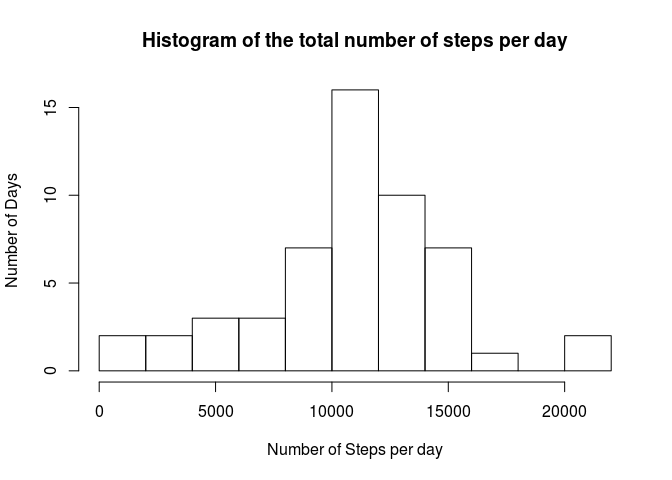
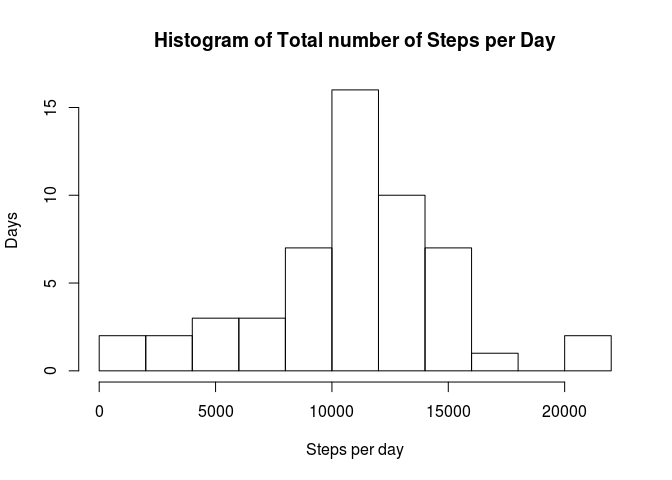
Additional reporting as required for the assignment

Changed region(s): [[0.1875, 0.0625, 0.8438, 0.125], [0.4062, 0.9062, 0.6562, 0.9688], [0.0, 0.3438, 0.0312, 0.5938]]

diff --git a/PA1_template.html b/PA1_template.html
@@ -80,12 +80,12 @@ img {
 <p>Load the required libraries</p>
 <pre class="r"><code>library(knitr)
 library(lattice)</code></pre>
-<p>Since the requirement is to output all of the R code in the final report, set the global option of <code>echo = TRUE</code></p>
+<p>Since the requirement is to output all of the R code in the final report, set the global option of <code>echo = TRUE</code>. Additionally, the generated plot images are supposed to be stored in the <code>figure</code> directory.</p>
 <pre class="r"><code>opts_chunk$set(echo = TRUE, fig.path='figure/')</code></pre>
 </div>
 <div id="loading-and-preprocessing-the-data" class="section level2">
 <h2>Loading and preprocessing the data</h2>
-<p>Since the dataset is already part of our github repo, let’s load it.</p>
+<p>Since the dataset is already part of our github repo in zip format, let’s load it.</p>
 <pre class="r"><code>unzip(zipfile = 'activity.zip', overwrite = TRUE)
 activityData &lt;- read.csv(file = 'activity.csv', header = TRUE)</code></pre>
 <p>Now, quickly confirm the structure of the dataset.</p>
@@ -103,8 +103,8 @@ activityData &lt;- read.csv(file = 'activity.csv', header = TRUE)</code></pre>
 ##  3rd Qu.: 12.00   2012-10-05:  288   3rd Qu.:1766.2  
 ##  Max.   :806.00   2012-10-06:  288   Max.   :2355.0  
 ##  NA's   :2304     (Other)   :15840</code></pre>
-<p>This confirms that the dataset has 3 variables of steps, date and interval as stated in the introduction above.</p>
-<p>Now, let’s answer some questions.</p>
+<p>This confirms that the dataset has 3 variables of <code>steps</code>, <code>date</code> and <code>interval</code> as stated in the introduction above.</p>
+<p>Now, let’s answer the questions for the assignment.</p>
 </div>
 <div id="what-is-mean-total-number-of-steps-taken-per-day" class="section level2">
 <h2>What is mean total number of steps taken per day?</h2>
@@ -117,8 +117,8 @@ colnames(totalStepsPerDay) &lt;- c('date', 'steps')</code></pre>
 <ol start="2" style="list-style-type: decimal">
 <li>Make a histogram of the total number of steps taken each day</li>
 </ol>
-<pre class="r"><code>hist(totalStepsPerDay$steps, breaks = 10, main = 'Histogram of the total number of steps per day', xlab = 'Number of Steps per day', ylab = 'Number of Days')</code></pre>
[1 lines of base64/hex data omitted]
+<pre class="r"><code>hist(totalStepsPerDay$steps, breaks = 10, main = 'Histogram of Total number of Steps per Day', xlab = 'Steps per day', ylab = 'Days')</code></pre>
[1 lines of base64/hex data omitted]
 <ol start="3" style="list-style-type: decimal">
 <li>Calculate and report the mean and median of the total number of steps taken per day</li>
 </ol>
@@ -128,6 +128,7 @@ meanStepsPerDay</code></pre>
 <pre class="r"><code>medianStepsPerDay &lt;- median(totalStepsPerDay$steps)
 medianStepsPerDay</code></pre>
 <pre><code>## [1] 10766</code></pre>
+<p><strong>Mean Steps Per Day</strong>: <code>10767</code><br /><strong>Median Steps Per Day</strong>: <code>10766</code></p>
 </div>
 <div id="what-is-the-average-daily-activity-pattern" class="section level2">
 <h2>What is the average daily activity pattern?</h2>
@@ -150,6 +151,7 @@ xyplot(as.numeric(avgStepsPerInterval$steps) ~ avgStepsPerInterval$interval,
 <pre class="r"><code>maxStepRow &lt;- avgStepsPerInterval[order(avgStepsPerInterval$steps, decreasing = TRUE),][1,]
 maxStepRow$interval</code></pre>
 <pre><code>## [1] 835</code></pre>
+<p><strong>Interval <code>835</code></strong> contains maximum number of steps averaged across all the days.</p>
 </div>
 <div id="imputing-missing-values" class="section level2">
 <h2>Imputing missing values</h2>
@@ -159,19 +161,23 @@ maxStepRow$interval</code></pre>
 <pre class="r"><code>missingValuesCount &lt;- length(activityData[is.na(activityData$steps),][,1])
 missingValuesCount</code></pre>
 <pre><code>## [1] 2304</code></pre>
+<p>There are a <strong>total of <code>2304</code> rows</strong> with NAs in the dataset</p>
 <ol start="2" style="list-style-type: decimal">
-<li>A strategy for filling in all of the missing values in the dataset can be to use the mean for that 5-minute interval. So, a new dataset that is equal to the original dataset but with the missing data filled in can be calculated as below:</li>
+<li>As a strategy for <strong>filling in all of the missing values we use the mean for that 5-minute interval.</strong> So, a new dataset that is equal to the original dataset but with the missing data filled in can be calculated as below:</li>
 </ol>
-<pre class="r"><code>imputedActivityData &lt;- activityData
+<pre class="r"><code>imputedActivityData &lt;- activityData #make a copy of the original dataset
+
+# loop through the dataset one row at a time
 for (i in 1:nrow(imputedActivityData)) {
-  if (is.na(imputedActivityData$steps[i])) {
+  if (is.na(imputedActivityData$steps[i])) { # for rows where steps are missing...
+    # ...set them to the mean steps for the corresponding interval
     imputedActivityData$steps[i] &lt;- avgStepsPerInterval$steps[avgStepsPerInterval$interval == imputedActivityData$interval[i]]
   }
 }</code></pre>
 <ol start="3" style="list-style-type: decimal">
-<li>Make a histogram of the total number of steps taken each day</li>
+<li>Calculate the total number of steps taken per day. This is required for the next step of building the histogram</li>
 </ol>
-<pre class="r"><code>totalImputedStepsPerDay &lt;- aggregate(x = imputedActivityData$steps, by = list(imputedActivityData$date), FUN = sum, na.exclude = TRUE)
+<pre class="r"><code>totalImputedStepsPerDay &lt;- aggregate(x = imputedActivityData$steps, by = list(imputedActivityData$date), FUN = sum)
 colnames(totalImputedStepsPerDay) &lt;- c('date', 'steps')</code></pre>
 <ol start="4" style="list-style-type: decimal">
 <li>Make a histogram of the total number of steps taken each day</li>
@@ -183,22 +189,25 @@ colnames(totalImputedStepsPerDay) &lt;- c('date', 'steps')</code></pre>
 </ol>
 <pre class="r"><code>meanImputedStepsPerDay &lt;- mean(totalImputedStepsPerDay$steps)
 meanImputedStepsPerDay</code></pre>
-<pre><code>## [1] 10767.19</code></pre>
+<pre><code>## [1] 10766.19</code></pre>
 <pre class="r"><code>medianImputedStepsPerDay &lt;- median(totalImputedStepsPerDay$steps)
 medianImputedStepsPerDay</code></pre>
-<pre><code>## [1] 10767.19</code></pre>
+<pre><code>## [1] 10766.19</code></pre>
+<p><strong>Mean Steps Per Day</strong>: <code>10766</code><br /><strong>Median Steps Per Day</strong>: <code>1.0766189\times 10^{4}</code></p>
 <ol start="6" style="list-style-type: decimal">
 <li>Do these values differ from the estimates from the first part of the assignment? What is the impact of imputing missing data on the estimates of the total daily number of steps?</li>
 </ol>
-<p>The difference of the imputed mean value from the estimates from the first part of the assignment is <code>meanStepsPerDay - meanImputedStepsPerDay</code> = <code>0</code></p>
-<p>The difference of the imputed median value from the estimates from the first part of the assignment is <code>medianStepsPerDay - medianImputedStepsPerDay</code> = <code>-1.2</code></p>
+<p>The difference of the imputed mean value from the estimates from the first part of the assignment is <code>meanStepsPerDay - meanImputedStepsPerDay</code> = <code>1</code></p>
+<p>The difference of the imputed median value from the estimates from the first part of the assignment is <code>medianStepsPerDay - medianImputedStepsPerDay</code> = <code>-0.19</code></p>
+<p>Looking at the above values, there isn’t significant difference between these estimates from the first part where we excluded the missing values.</p>
 </div>
 <div id="are-there-differences-in-activity-patterns-between-weekdays-and-weekends" class="section level2">
 <h2>Are there differences in activity patterns between weekdays and weekends?</h2>
 <ol style="list-style-type: decimal">
 <li>Create a new factor variable in the dataset with two levels – “weekday” and “weekend” indicating whether a given date is a weekday or weekend day.</li>
 </ol>
-<pre class="r"><code>imputedActivityData$dayType &lt;- as.factor(sapply(imputedActivityData$date, function(date) {
+<pre class="r"><code># Using the weekdays function, we can add a new factor to the dataset
+imputedActivityData$dayType &lt;- as.factor(sapply(imputedActivityData$date, function(date) {
   if(weekdays(as.Date(date)) %in% c(&quot;Saturday&quot;, &quot;Sunday&quot;)) {
     &quot;weekend&quot;
   } else {

diff --git a/PA1_template.md b/PA1_template.md
@@ -18,14 +18,14 @@ Load the required libraries
 library(knitr)
 library(lattice)
 ```
-Since the requirement is to output all of the R code in the final report, set the global option of `echo = TRUE`
+Since the requirement is to output all of the R code in the final report, set the global option of `echo = TRUE`. Additionally, the generated plot images are supposed to be stored in the `figure` directory.
 
 ```r
 opts_chunk$set(echo = TRUE, fig.path='figure/')
 ```
 
 ## Loading and preprocessing the data
-Since the dataset is already part of our github repo, let's load it.
+Since the dataset is already part of our github repo in zip format, let's load it.
 
 ```r
 unzip(zipfile = 'activity.zip', overwrite = TRUE)
@@ -60,9 +60,9 @@ summary(activityData)
 ##  NA's   :2304     (Other)   :15840
 ```
 
-This confirms that the dataset has 3 variables of steps, date and interval as stated in the introduction above.
+This confirms that the dataset has 3 variables of `steps`, `date` and `interval` as stated in the introduction above.
 
-Now, let's answer some questions.
+Now, let's answer the questions for the assignment.
 
 ## What is mean total number of steps taken per day?
 1. Calculate the total number of steps taken per day ignoring the missing values
@@ -76,7 +76,7 @@ colnames(totalStepsPerDay) <- c('date', 'steps')
 2. Make a histogram of the total number of steps taken each day
 
 ```r
-hist(totalStepsPerDay$steps, breaks = 10, main = 'Histogram of the total number of steps per day', xlab = 'Number of Steps per day', ylab = 'Number of Days')
+hist(totalStepsPerDay$steps, breaks = 10, main = 'Histogram of Total number of Steps per Day', xlab = 'Steps per day', ylab = 'Days')
 ```
 
 ![](figure/histogramOfStepsPerDay-1.png) 
@@ -101,7 +101,8 @@ medianStepsPerDay
 ```
 ## [1] 10766
 ```
-
+**Mean Steps Per Day**: ``10767``  
+**Median Steps Per Day**: ``10766``
 
 ## What is the average daily activity pattern?
 1. Time series plot (i.e. type = "l") of the 5-minute interval (x-axis) and the average number of steps taken, averaged across all days (y-axis)
@@ -131,6 +132,7 @@ maxStepRow$interval
 ## [1] 835
 ```
 
+**Interval ``835``** contains maximum number of steps averaged across all the days.
 
 ## Imputing missing values
 1. Calculate and report the total number of missing values in the dataset (i.e. the total number of rows with NAs)
@@ -144,21 +146,26 @@ missingValuesCount
 ## [1] 2304
 ```
 
-2. A strategy for filling in all of the missing values in the dataset can be to use the mean for that 5-minute interval. So, a new dataset that is equal to the original dataset but with the missing data filled in can be calculated as below:
+There are a **total of ``2304`` rows** with NAs in the dataset
+
+2. As a strategy for **filling in all of the missing values we use the mean for that 5-minute interval.** So, a new dataset that is equal to the original dataset but with the missing data filled in can be calculated as below:
 
 ```r
-imputedActivityData <- activityData
+imputedActivityData <- activityData #make a copy of the original dataset
+
+# loop through the dataset one row at a time
 for (i in 1:nrow(imputedActivityData)) {
-  if (is.na(imputedActivityData$steps[i])) {
+  if (is.na(imputedActivityData$steps[i])) { # for rows where steps are missing...
+    # ...set them to the mean steps for the corresponding interval
     imputedActivityData$steps[i] <- avgStepsPerInterval$steps[avgStepsPerInterval$interval == imputedActivityData$interval[i]]
   }
 }
 ```
 
-3. Make a histogram of the total number of steps taken each day
+3. Calculate the total number of steps taken per day. This is required for the next step of building the histogram
 
 ```r
-totalImputedStepsPerDay <- aggregate(x = imputedActivityData$steps, by = list(imputedActivityData$date), FUN = sum, na.exclude = TRUE)
+totalImputedStepsPerDay <- aggregate(x = imputedActivityData$steps, by = list(imputedActivityData$date), FUN = sum)
 colnames(totalImputedStepsPerDay) <- c('date', 'steps')
 ```
 
@@ -178,7 +185,7 @@ meanImputedStepsPerDay
 ```
 
 ```
-## [1] 10767.19
+## [1] 10766.19
 ```
 
 ```r
@@ -187,21 +194,25 @@ medianImputedStepsPerDay
 ```
 
 ```
-## [1] 10767.19
+## [1] 10766.19
 ```
+
+**Mean Steps Per Day**: ``10766``  
+**Median Steps Per Day**: ``1.0766189\times 10^{4}``
 
 6. Do these values differ from the estimates from the first part of the assignment? What is the impact of imputing missing data on the estimates of the total daily number of steps?
 
-The difference of the imputed mean value from the estimates from the first part of the assignment is ```meanStepsPerDay - meanImputedStepsPerDay``` = ``0``
+The difference of the imputed mean value from the estimates from the first part of the assignment is ```meanStepsPerDay - meanImputedStepsPerDay``` = ``1``
 
-The difference of the imputed median value from the estimates from the first part of the assignment is ```medianStepsPerDay - medianImputedStepsPerDay``` = ``-1.2``
+The difference of the imputed median value from the estimates from the first part of the assignment is ```medianStepsPerDay - medianImputedStepsPerDay``` = ``-0.19``
 
-
+Looking at the above values, there isn't significant difference between these estimates from the first part where we excluded the missing values.
 
 ## Are there differences in activity patterns between weekdays and weekends?
 1. Create a new factor variable in the dataset with two levels – “weekday” and “weekend” indicating whether a given date is a weekday or weekend day.
 
 ```r
+# Using the weekdays function, we can add a new factor to the dataset
 imputedActivityData$dayType <- as.factor(sapply(imputedActivityData$date, function(date) {
   if(weekdays(as.Date(date)) %in% c("Saturday", "Sunday")) {
     "weekend"
